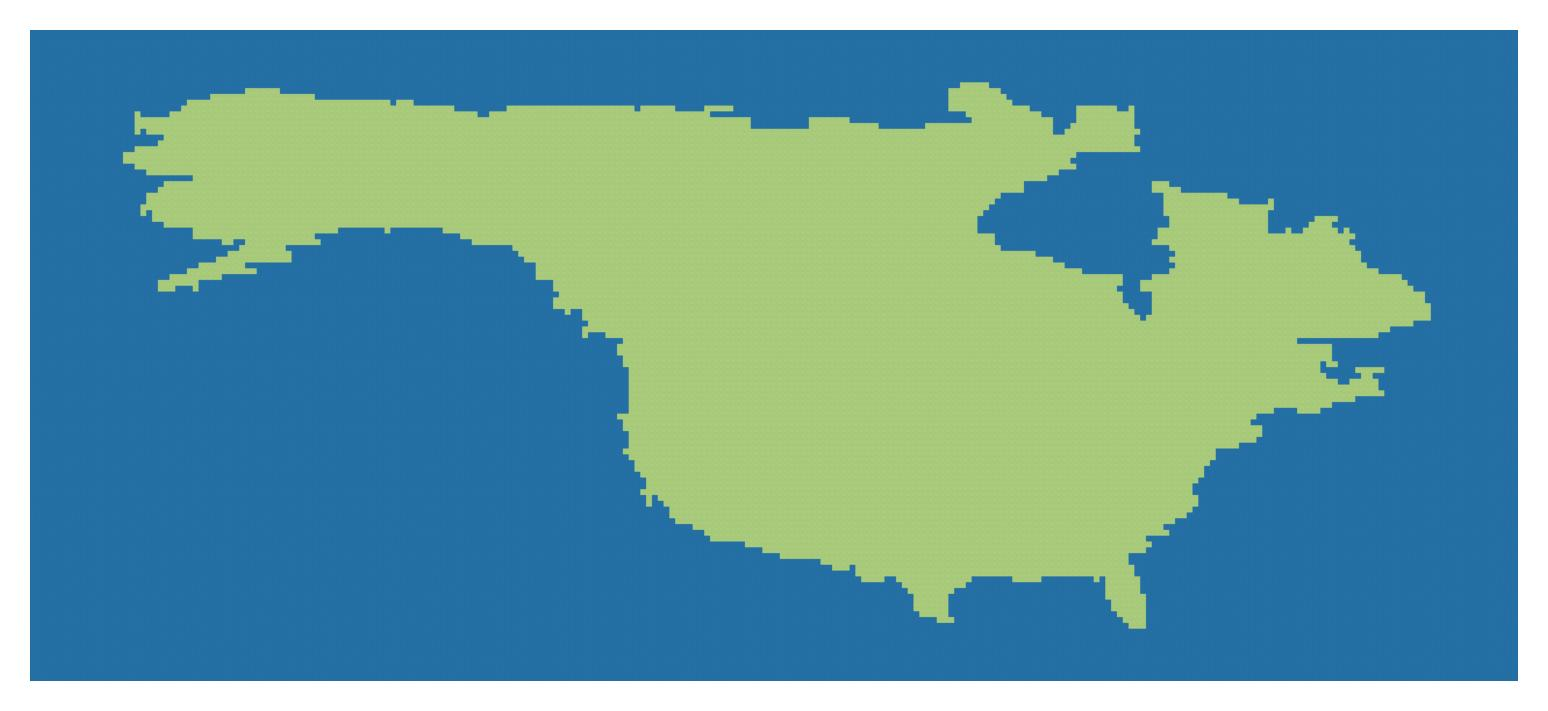
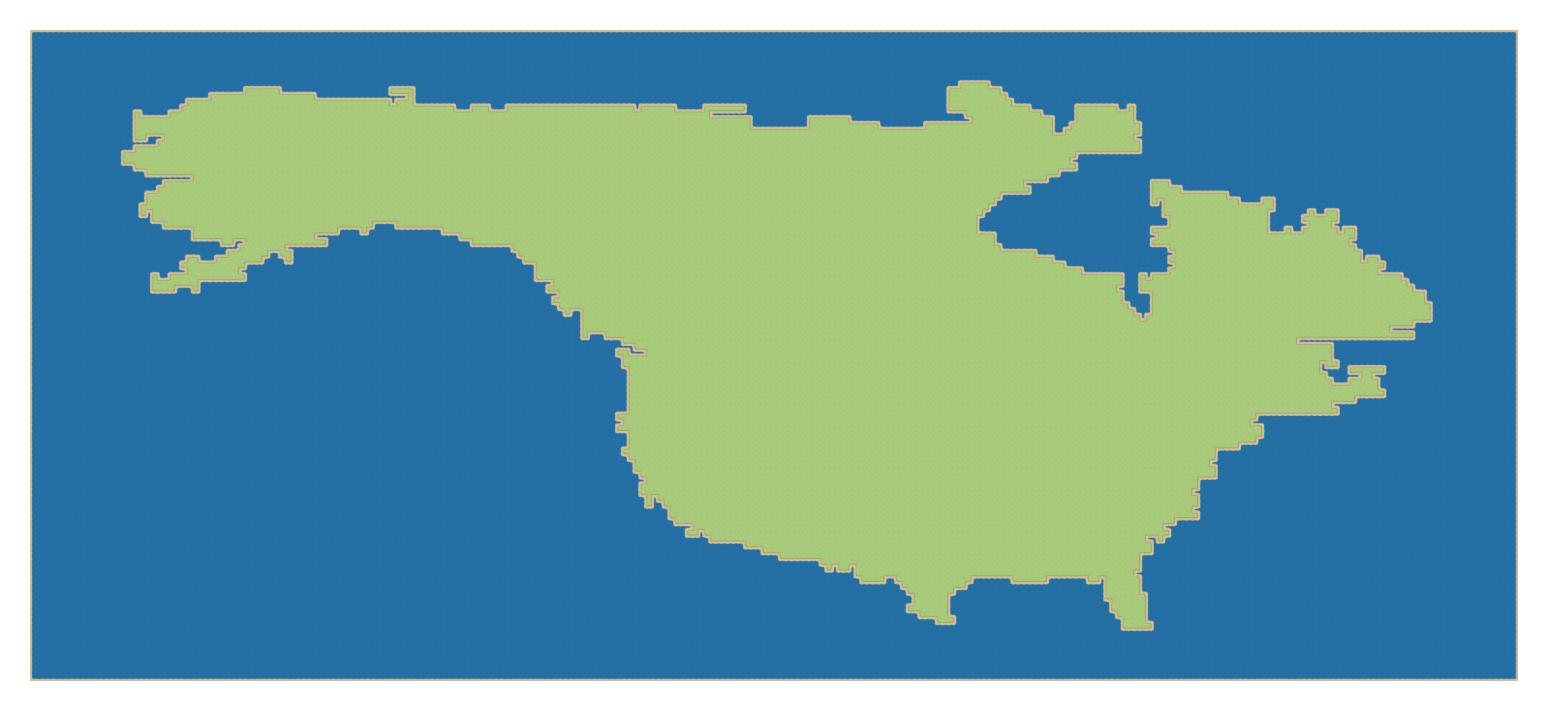
enable edge plotting

diff --git a/src/PyRMMV/RMMVMap.py b/src/PyRMMV/RMMVMap.py
@@ -6,7 +6,7 @@ from PIL import Image
 from typing import Dict, Tuple
 
 from .utils import logger
-from .utils import DEFAULT_TILE, DEFAULT_INDEX_DICT
+from .utils import DEFAULT_TILE, DEFAULT_INDEX_DICT, NEIGHBOR_TO_CENTER_DICT
 
 
 class TilesetsBase:
@@ -129,6 +129,53 @@ class TilesetsBase:
             return tile
 
 
+    def simplify_neighbors(self, neighbors):
+        if not (neighbors[0][1] and neighbors[1][0]):
+            neighbors[0][0] = False
+        if not (neighbors[1][0] and neighbors[2][1]):
+            neighbors[2][0] = False
+        if not (neighbors[0][1] and neighbors[1][2]):
+            neighbors[0][2] = False
+        if not (neighbors[1][2] and neighbors[2][1]):
+            neighbors[2][2] = False
+        return neighbors
+
+
+    def estimate_and_fill(self, tile_id, binary_mask):
+        """
+        fill map according to give binary mask and redefine based on given tile id
+
+        tile_id: desired tile id to locate corresponding tileset
+        binary_mask: to fill where it is True
+        """
+        tileset = self.get_tileset(tile_id)
+        assert tileset is not None, f"cannot locate tileset given tile id {tile_id}"
+
+        # we pad to handle the borders
+        padded_bm = np.zeros([binary_mask.shape[0]+2, binary_mask.shape[1]+2]).astype(np.bool_)
+        padded_bm[1:-1, 1:-1] = binary_mask
+        h, w = padded_bm.shape
+        res = np.zeros_like(binary_mask).astype(np.int32)
+        for r in range(1, h-1):
+            for c in range(1, w-1):
+                if padded_bm[r, c]:  # ready to check neighbor conditions
+                    neighbors = padded_bm[r-1:r+2,c-1:c+2].copy()
+                    neighbors = self.simplify_neighbors(neighbors)
+                    # flip labels (True to 0) to fit the dict definition
+                    neighbors = (~neighbors).astype(np.int32).tolist()
+                    neighbors = tuple([tuple(row) for row in neighbors])
+                    tile_index = NEIGHBOR_TO_CENTER_DICT[neighbors]
+                    res[r-1,c-1] = tile_index
+        
+        assert np.all(res[~binary_mask] == 0), "overwrite to extra place!"
+
+        # above already map to one of the 48 cases
+        # we add the tileset offset
+        tileset_offset = (tile_id - self.tile_id_range[0]) // 48
+        tileset_offset = tileset_offset * 48 + self.tile_id_range[0]
+        res[binary_mask] += tileset_offset
+        return res
+
 class TilesetsA1(TilesetsBase):
     """
     Tilesets class for A1 autotiles.
@@ -200,11 +247,23 @@ class RMMVMap:
         res = f"RMMVMap using tilesets {tilesets_names}"
         return res
 
-    def get_tile(self, tile_id, return_index=False):
+    def get_tilesets(self, tile_id, return_index=False):
         res = None
         for tilesets in self.tilesets_list:
+            if tilesets.check_valid_tile_id(tile_id):
+                res = tilesets
+        return res
+
+    def get_tile(self, tile_id, return_index=False):
+        res = None
+        tilesets = self.get_tilesets(tile_id)
+        if tilesets is not None:
             res = tilesets.get_tile(tile_id, return_index=return_index)
-            if res is not None:
-                logger.debug(f"[{tilesets.tileset_name}] tile_id={tile_id} found!")
-                break
+        return res
+
+    def estimate_and_fill(self, tile_id, binary_mask):
+        res = None
+        tilesets = self.get_tilesets(tile_id)
+        if tilesets is not None:
+            res = tilesets.estimate_and_fill(tile_id, binary_mask)
         return res

diff --git a/src/PyRMMV/utils.py b/src/PyRMMV/utils.py
@@ -74,3 +74,195 @@ DEFAULT_INDEX_DICT = {
 
     47: {"ul": 8, "ur": 11, "ll": 20, "lr": 23},
 }
+
+# use following mapping to decide center tile according to 3x3 neighbors
+# 0s are connected cases
+NEIGHBOR_TO_CENTER_DICT = {
+((0,0,0),
+ (0,0,0),
+ (0,0,0)) : 0,
+
+((1,0,0),
+ (0,0,0),
+ (0,0,0)) : 1,
+
+((0,0,1),
+ (0,0,0),
+ (0,0,0)) : 2,
+
+((1,0,1),
+ (0,0,0),
+ (0,0,0)) : 3,
+
+((0,0,0),
+ (0,0,0),
+ (0,0,1)) : 4,
+
+((1,0,0),
+ (0,0,0),
+ (0,0,1)) : 5,
+
+((0,0,1),
+ (0,0,0),
+ (0,0,1)) : 6,
+
+((1,0,1),
+ (0,0,0),
+ (0,0,1)) : 7,
+
+((0,0,0),
+ (0,0,0),
+ (1,0,0)) : 8,
+
+((1,0,0),
+ (0,0,0),
+ (1,0,0)) : 9,
+
+((0,0,1),
+ (0,0,0),
+ (1,0,0)) : 10,
+
+((1,0,1),
+ (0,0,0),
+ (1,0,0)) : 11,
+
+((0,0,0),
+ (0,0,0),
+ (1,0,1)) : 12,
+
+((1,0,0),
+ (0,0,0),
+ (1,0,1)) : 13,
+
+((0,0,1),
+ (0,0,0),
+ (1,0,1)) : 14,
+
+((1,0,1),
+ (0,0,0),
+ (1,0,1)) : 15,
+
+((1,0,0),
+ (1,0,0),
+ (1,0,0)) : 16,
+
+((1,0,1),
+ (1,0,0),
+ (1,0,0)) : 17,
+
+((1,0,0),
+ (1,0,0),
+ (1,0,1)) : 18,
+
+((1,0,1),
+ (1,0,0),
+ (1,0,1)) : 19,
+
+((1,1,1),
+ (0,0,0),
+ (0,0,0)) : 20,
+
+((1,1,1),
+ (0,0,0),
+ (0,0,1)) : 21,
+
+((1,1,1),
+ (0,0,0),
+ (1,0,0)) : 22,
+
+((1,1,1),
+ (0,0,0),
+ (1,0,1)) : 23,
+
+((0,0,1),
+ (0,0,1),
+ (0,0,1)) : 24,
+
+((0,0,1),
+ (0,0,1),
+ (1,0,1)) : 25,
+
+((1,0,1),
+ (0,0,1),
+ (0,0,1)) : 26,
+
+((1,0,1),
+ (0,0,1),
+ (1,0,1)) : 27,
+
+((0,0,0),
+ (0,0,0),
+ (1,1,1)) : 28,
+
+((1,0,0),
+ (0,0,0),
+ (1,1,1)) : 29,
+
+((0,0,1),
+ (0,0,0),
+ (1,1,1)) : 30,
+
+((1,0,1),
+ (0,0,0),
+ (1,1,1)) : 31,
+
+((1,0,1),
+ (1,0,1),
+ (1,0,1)) : 32,
+
+((1,1,1),
+ (0,0,0),
+ (1,1,1)) : 33,
+
+((1,1,1),
+ (1,0,0),
+ (1,0,0)) : 34,
+
+((1,1,1),
+ (1,0,0),
+ (1,0,1)) : 35,
+
+((1,1,1),
+ (0,0,1),
+ (0,0,1)) : 36,
+
+((1,1,1),
+ (0,0,1),
+ (1,0,1)) : 37,
+
+((0,0,1),
+ (0,0,1),
+ (1,1,1)) : 38,
+
+((1,0,1),
+ (0,0,1),
+ (1,1,1)) : 39,
+
+((1,0,0),
+ (1,0,0),
+ (1,1,1)) : 40,
+
+((1,0,1),
+ (1,0,0),
+ (1,1,1)) : 41,
+
+((1,1,1),
+ (1,0,1),
+ (1,0,1)) : 42,
+
+((1,1,1),
+ (1,0,0),
+ (1,1,1)) : 43,
+
+((1,0,1),
+ (1,0,1),
+ (1,1,1)) : 44,
+
+((1,1,1),
+ (0,0,1),
+ (1,1,1)) : 45,
+
+((1,1,1),
+ (1,0,1),
+ (1,1,1)) : 46,
+}

diff --git a/examples/geojson_generation.py b/examples/geojson_generation.py
@@ -104,6 +104,7 @@ def fill_binary_map(bmap):
 
     # get the original size
     ans = padded_bmap[p:-p, p:-p]
+    ans = ans.astype(np.bool_)
     return ans
 
 
@@ -127,8 +128,6 @@ def turn_figure_into_all_connected_bmap(fig_fname):
 
     # preprocess to make a fulfilled binary map, there are holes from generated image
     bmap = fill_binary_map(new_np_img)
-    bmap[bmap == 0] = 2048  # water
-    bmap[bmap == 1] = 2816  # land
     return bmap
 
 
@@ -186,18 +185,21 @@ def generate_map_json(
 
     # generate figure
     bmap = turn_figure_into_all_connected_bmap(tmp_fig_fname)
+    rmmvmap = RMMVMap(A1="resources/World_A1.png", A2="resources/World_A2.png")
+    water = rmmvmap.estimate_and_fill(2048, bmap==0)
+    land = rmmvmap.estimate_and_fill(2816, bmap==1)
+    valued_map = water + land
 
     # generate finalized json
     with open(template_map_json) as f:
         template_map = json.loads(f.read())
     new_map = dict(template_map)
-    new_map['height'] = bmap.shape[0]
-    new_map['width'] = bmap.shape[1]
-    new_map['data'] = bmap.ravel().tolist() + [0] * (5 * bmap.shape[0] * bmap.shape[1])
+    new_map['height'] = valued_map.shape[0]
+    new_map['width'] = valued_map.shape[1]
+    new_map['data'] = valued_map.ravel().tolist() + [0] * (5 * valued_map.shape[0] * valued_map.shape[1])
     with open(result_map_json, "w") as f:
         json.dump(new_map, f)
 
-    rmmvmap = RMMVMap(A1="resources/World_A1.png", A2="resources/World_A2.png")
     plot_map(result_map_json, rmmvmap, tmp_fig_fname)
 
 
